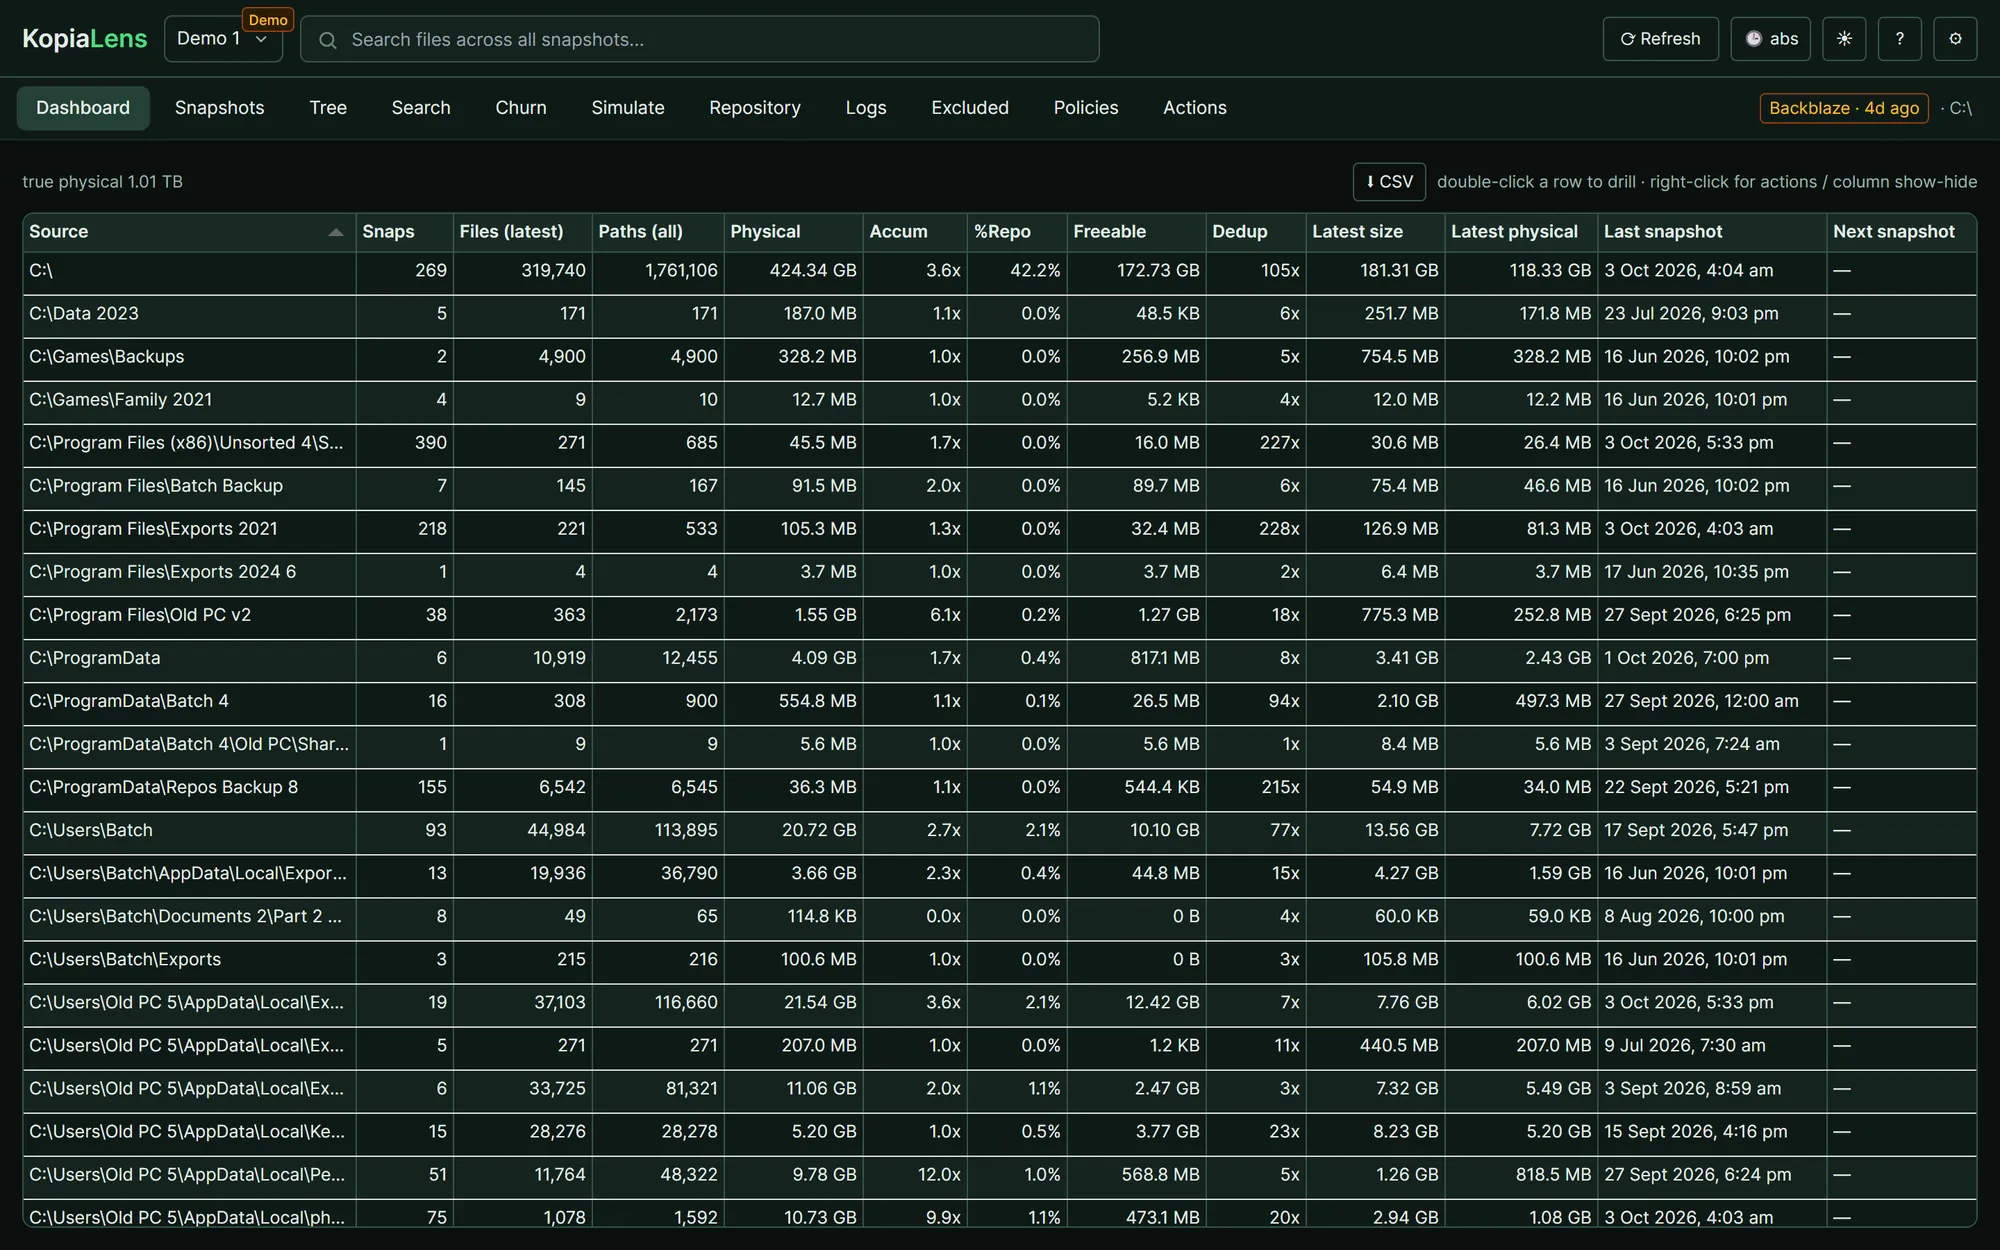
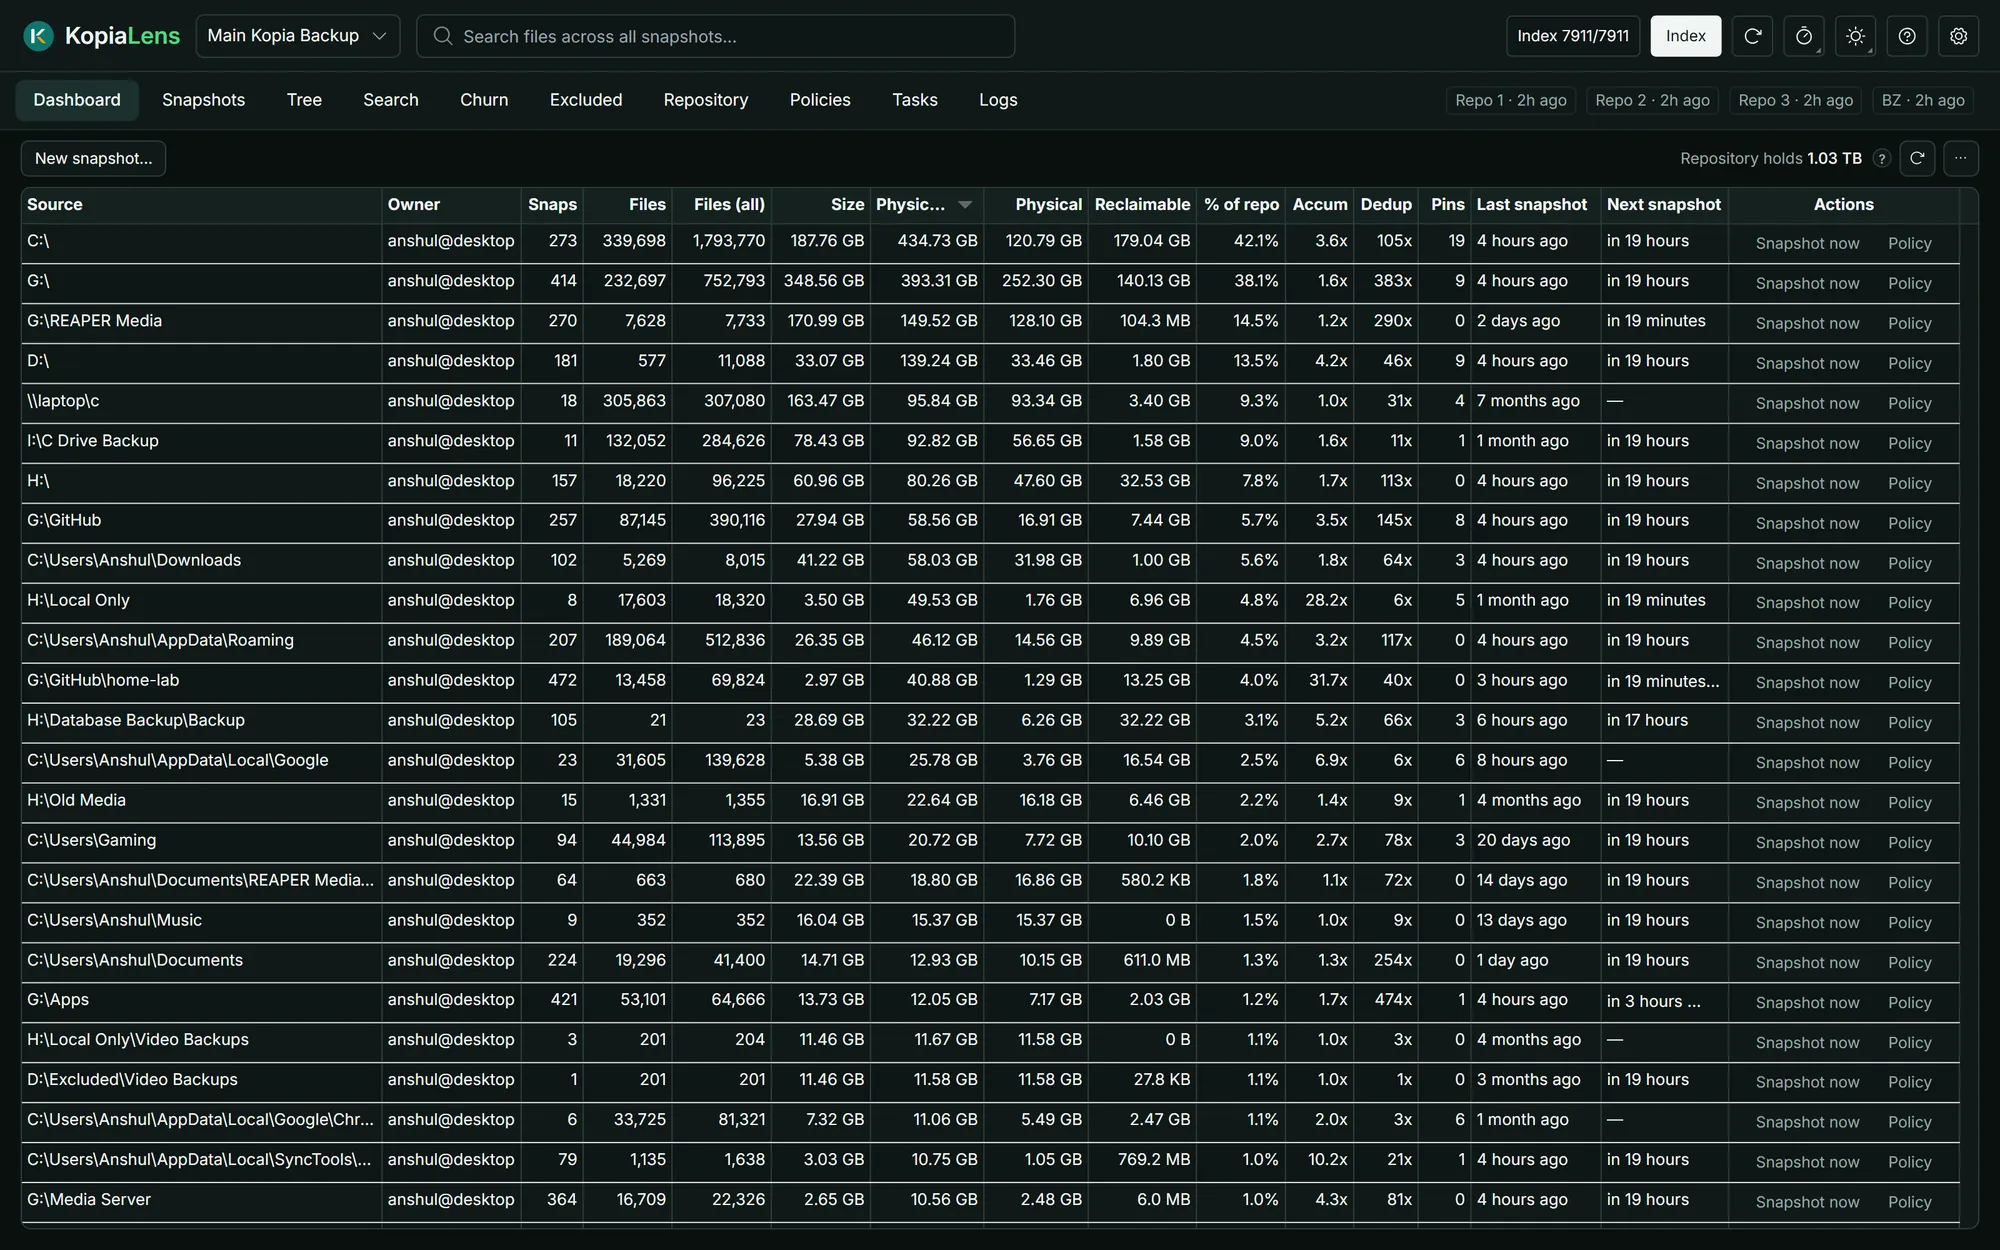
Update README and screenshot

Changed region(s): [[0.0, 0.0, 0.992, 0.9984], [0.589, 0.0624, 0.62, 0.0936]]

diff --git a/README.md b/README.md
@@ -1,33 +1,61 @@
 <h1 align="center"><a href="https://kopialens.com"><img src="assets/logo-heading.svg" width="48" height="56" align="absmiddle" alt="KopiaLens logo"></a> KopiaLens</h1>
 
-<p align="center"><b>Find what's bloating your Kopia backups. Get the space back.</b></p>
+<p align="center"><b>A backup app for Kopia, with an analysis engine built in.</b></p>
+
+<p align="center">Windows · macOS · Linux · Docker · Home Assistant</p>
 
 <p align="center">
   <a href="https://kopialens.com/download">Download</a> ·
   <a href="https://kopialens.com/docs">Docs</a> ·
   <a href="https://kopialens.com/pricing">Pricing</a> ·
+  <a href="ROADMAP.md">Roadmap</a> ·
   <a href="https://discord.gg/22EU4cqEf6">Discord</a>
 </p>
 
 ![The KopiaLens dashboard, showing the real size of each backed-up folder](assets/dashboard.webp)
 
-KopiaLens shows the real size of everything in your [Kopia](https://kopia.io) repository, finds the files you never meant to keep, and removes them from every snapshot that holds them, with a dry run first.
+<p align="center"><a href="https://kopialens.com/#demo"><b>▶ Watch the video demo</b></a></p>
 
-It works on the repository you already have, beside KopiaUI and the kopia command line, or on its own: it includes kopia and can run your backups too.
+## Overview
 
-## What it does
+KopiaLens is a desktop and server app for [Kopia](https://github.com/kopia/kopia) backups. It creates repositories, runs your backups on a schedule, restores files, runs maintenance, and much more. It works on the repositories you already have, and KopiaUI and the kopia CLI can keep working alongside it.
 
-- See where the space goes: every backed-up folder with its real cost after deduplication
-- Find any file in any snapshot, with every version of it
-- Rank snapshots by how much deleting them would free
-- Catch the folders that rewrite themselves on every backup
-- Browse any snapshot like a disk
-- Try a retention policy before you use it
-- Write exclusions that do what you meant, and check what isn't backed up
-- Run backups on schedule, restore, mount and edit policies
-- Remove files and folders from existing snapshots (Pro)
+It's designed to answer questions that Kopia can't answer quickly: what each folder really costs after deduplication (the real physical size), which snapshots hold a file, how your backups grow every night, what isn't backed up on your machine, and how much deleting something would actually free.
 
-## Download
+I built it for my own backups: about 5 TB across two repositories, where it found 400+ GB of junk I'd been paying to keep, and helped re-organize my backup strategy with its analysis features.
+
+## Features
+
+### Back up
+
+- **Scheduled backups on Kopia's engine:** encrypted, compressed and deduplicated, to any storage Kopia supports (local or network drives, SFTP, S3 and S3-compatible, Backblaze B2, Azure, Google Cloud and more).
+- **Restore, download or mount** any file or folder from any snapshot.
+- **Policies and retention**, with an editor that shows what each folder inherits.
+- **Maintenance, verify and notifications:** email, Pushover, webhooks and ntfy.
+- **Desktop app with a tray**, or headless in Docker and Home Assistant, used from any browser.
+
+### See inside
+
+- **Real sizes** for every folder and source: logical, physical after deduplication, and reclaimable.
+- **Search** every file in every snapshot. On my main repository, 19 million file versions take about a second.
+- **Tree:** browse any snapshot like a disk, largest folders first.
+- **Churn:** the files and folders that add new data on every backup.
+- **Simulate** a retention policy before you use it.
+- **Excluded:** the folders on your disks that no backup covers.
+- **Backblaze:** see what Backblaze Personal Backup is really backing up. (Windows-only for now)
+
+### Clean up (Pro)
+
+- **Remove files and folders** from every snapshot that holds them, without deleting the snapshots.
+- **Prune versions:** keep the versions of a file you want and remove the rest.
+- **Smart excludes and exclude & delete:** stop backing something up and take it out of the past in one step.
+
+### Scripts and AI agents
+
+- **[`klens` command line](https://kopialens.com/docs/cli) and an [HTTP API](https://kopialens.com/docs/api)**, with a token per script or agent.
+- **Approvals:** an agent can plan a removal, and nothing is deleted until you approve it in the app.
+
+## Install
 
 | Platform | Get it |
 |---|---|
@@ -39,11 +67,7 @@ It works on the repository you already have, beside KopiaUI and the kopia comman
 
 All files are on the [releases page](../../releases/latest), with checksums. Install steps for each: [kopialens.com/download](https://kopialens.com/download).
 
-The Windows and macOS apps aren't code-signed, so Windows shows a SmartScreen warning and macOS blocks the first open. The [download page](https://kopialens.com/download) shows how to get past both.
-
-KopiaLens needs an ordinary desktop, laptop or home server; how much memory and disk it uses: [Hardware and memory](https://kopialens.com/docs/hardware).
-
-
+The Windows and macOS apps aren't code-signed, so Windows shows a SmartScreen warning and macOS blocks the first open. The [download page](https://kopialens.com/download) shows how to get past both. Memory and disk use: [Hardware and memory](https://kopialens.com/docs/hardware).
 
 ## Getting started
 
@@ -53,23 +77,37 @@ KopiaLens needs an ordinary desktop, laptop or home server; how much memory and 
 
 The [first-time setup guide](https://kopialens.com/docs/getting-started) walks through each step.
 
+Coming from KopiaUI or BlinkDisk? [KopiaLens alongside KopiaUI](https://kopialens.com/docs/kopiaui) and [Using KopiaLens with BlinkDisk](https://kopialens.com/docs/blinkdisk) cover sharing a repository and moving your schedules over.
+
 ## Free and Pro
 
-Everything KopiaLens shows you is free, with no time limit. Pro adds the actions that remove data from inside your backups. [See pricing](https://kopialens.com/pricing).
+The whole backup app is free: backups, restore, search, and every analysis view, with no time limit and no account. Pro enables the actions that remove junk from inside your old backups. Most Pro actions have cleanup previews, and all Pro actions can be tested on sample data. [See pricing](https://kopialens.com/pricing).
 
-## Your backups stay yours
+## How KopiaLens handles your backups
 
-- Nothing in your repository changes unless you start an action, and every action shows exactly what it will do first.
-- No file names, paths or backup contents leave your computer. A daily update check sends anonymous usage numbers, and both can be turned off ([what is sent](https://kopialens.com/docs/usage-stats)).
+- **Your backups are standard Kopia backups.** KopiaUI and the kopia command line can always open, restore and keep running them. Your backups don't depend on KopiaLens.
+- **Reading is the default.** Nothing in a repository changes unless you start an action, and every action shows exactly what it will do first.
+- **You choose how much it may change.** Permissions range from read-only to full access, for the whole app or per repository.
+- **Everything is on the record.** The audit log lists every action, and whether a person, a token or an agent started it.
+- **Your file names stay on your computer.** No file names, paths or contents are ever sent anywhere ([what is sent](https://kopialens.com/docs/usage-stats)).
 
-## Bugs, ideas and questions
+## AI Disclosure
 
-- Found a bug or want a feature? [Open an issue](../../issues/new/choose).
+I built KopiaLens with a lot of AI help, and more than 500 hours of my own. I've used it for my own backups every day since June 2026. The design, the decisions and the responsibility are mine, so if something's wrong, please open an issue and I'll fix it.
+
+Under the hood: a Python server, Kopia, Parquet and DuckDB for the index, and a Tauri desktop app ([How KopiaLens works](ARCHITECTURE.md), [Security](SECURITY.md)).
+
+## Feedback and Bugs
+
+- Found a bug or want a feature? [Open an issue](../../issues/new/choose). 
 - Questions and setup help: [the docs](https://kopialens.com/docs), [Discord](https://discord.gg/22EU4cqEf6) or support@kopialens.com.
+- Found a security problem? Please report it privately: [SECURITY.md](SECURITY.md).
 
 ## Thanks to Kopia
 
-❤ Thank you to the Kopia team and contributors. KopiaLens wouldn't exist without Kopia. It's one of the best backup engines out there: fast, secure and dependable, and I'm grateful to be able to build on it. KopiaLens is an independent project, not affiliated with or endorsed by the Kopia project.
+❤ Thank you to the Kopia team and contributors. KopiaLens wouldn't exist without Kopia. It's one of the best backup engines out there: fast, secure and dependable. 
+
+KopiaLens is an independent project, not affiliated with or endorsed by the Kopia project.
 
 ## Support the project
 
@@ -77,4 +115,18 @@ KopiaLens is built by one independent developer. If you'd like to back its devel
 
 ---
 
-Third-party licences: Settings → About → Third-party notices in the app.
+## Credits
+
+KopiaLens is built on the work of these open-source projects:
+
+- [Kopia](https://github.com/kopia/kopia): the backup engine underneath everything
+- [DuckDB](https://github.com/duckdb/duckdb) and [Apache Arrow / Parquet](https://github.com/apache/arrow): the index
+- [FastAPI](https://github.com/fastapi/fastapi) and [Uvicorn](https://github.com/encode/uvicorn): the server
+- [Tauri](https://github.com/tauri-apps/tauri): the desktop app
+- [Alpine.js](https://github.com/alpinejs/alpine), [Tailwind CSS](https://github.com/tailwindlabs/tailwindcss) and [Tabulator](https://github.com/olifolkerd/tabulator): the interface
+- [Phosphor Icons](https://github.com/phosphor-icons/core): icons
+- [cryptography](https://github.com/pyca/cryptography) and [argon2-cffi](https://github.com/hynek/argon2-cffi): encryption
+- [Nuitka](https://github.com/Nuitka/Nuitka): compiling the server
+- [Everything](https://www.voidtools.com) by voidtools: fast disk lookups on Windows
+
+The full list of components and their licences ships with every release (`THIRD-PARTY-NOTICES.txt`) and is in the app under **Settings → About → Third-party notices**.
